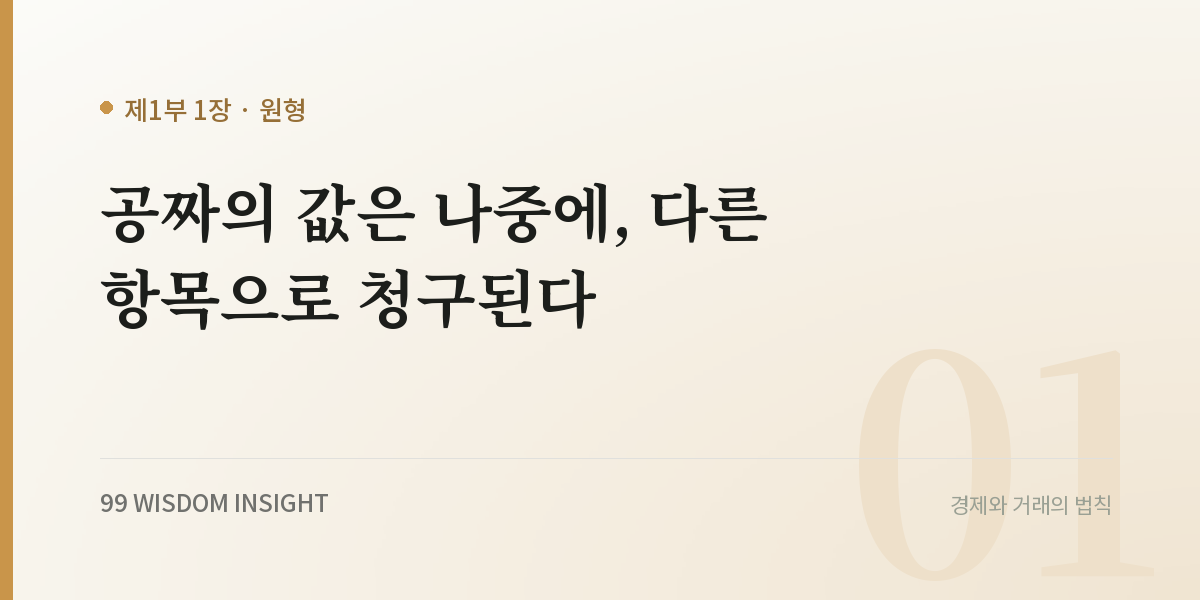
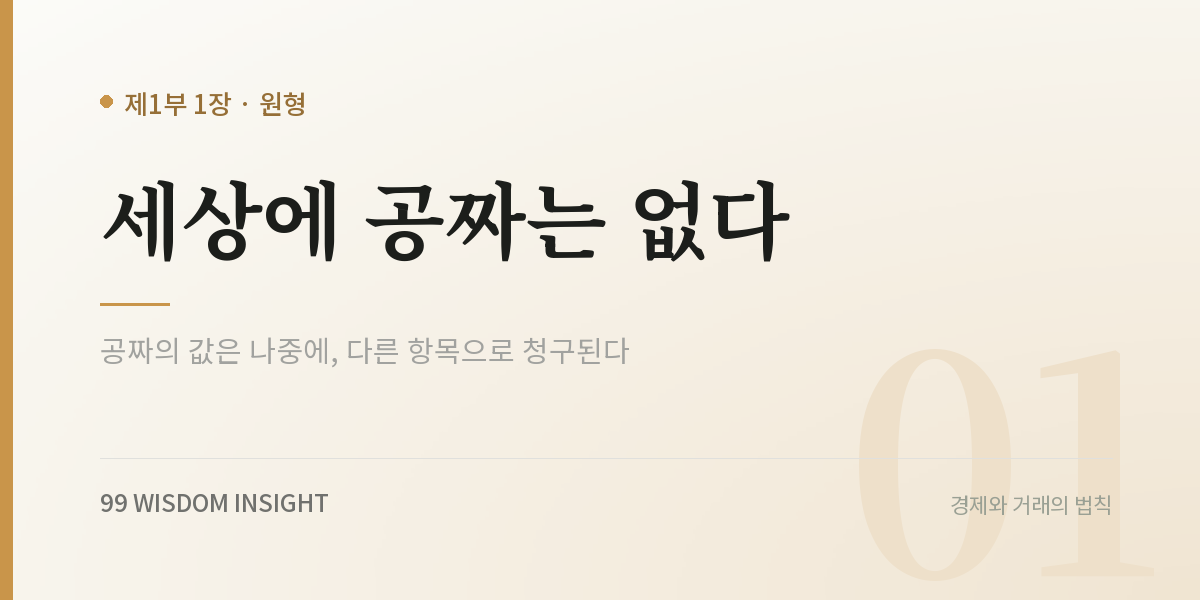
원문 마무리 교체 + 공유 카드에 속담을 헤드라인으로
원문 1장의 마지막 문장이 칼럼과 완전히 같았다. 칼럼 하단에 '원문 보기'가
있어 이어 읽으면 같은 펀치라인을 두 번 맞는 구조였다. '이 점심은 어디가
짠가'는 칼럼에 남기고, 원문은 자기가 연 장면(키플링)으로 닫으면서 회계
은유로 끝나도록 바꿨다.

공유 카드는 속담(anchor_quote)을 헤드라인으로 올리고, 칼럼의 인사이트
한 줄(quotable)을 그 아래 작게 받치도록 다시 짰다. 속담이 공감이 가장
빨리 일어나는 문장이라 먼저 눈에 들어와야 한다. 둘 사이에는 부 색을 쓴
짧은 구분선을 둬 좌측 액센트 바와 호응시켰다.

속담 길이가 4자에서 38자까지 벌어져 있어, 줄 수만 보고 줄이면 긴 속담에서
블록이 푸터를 넘어 잘렸다(75장으로 확인). 전체 높이까지 보고 줄이도록
고쳤고, 그래도 넘치면 받침을 한 줄로 줄인다. 주인공은 속담이다.

함께 고친 것:
- 목록 API 가 anchor_quote 를 내려주지 않아 카드에서 쓸 수 없었다. 공개
  칼럼 페이지에 이미 보이는 값이라 SELECT 에 추가했다.
- reader.html 의 og:image 치수가 800x400 으로 적혀 있었다. 실제 카드는
  1200x600 이다. 카카오·페이스북이 이 값을 미리보기 배치에 쓴다.
- 1:1 카드는 가운데가 비어 상단에 쏠려서 헤드라인을 100 에서 116 으로 키웠다.

4자·7자·33자·38자 속담으로 2:1 과 1:1 을 모두 확인했다.

Changed region(s): [[0.0617, 0.3, 0.6475, 0.6], [0.0617, 0.15, 0.2467, 0.21]]

diff --git a/functions/api/[[path]].js b/functions/api/[[path]].js
@@ -777,7 +777,7 @@ async function handleListInsights(request, env) {
   const lens    = url.searchParams.get('lens');
   const chapter = url.searchParams.get('chapter');
 
-  let sql = "SELECT id, chapter_id, part_id, lens, slug, title, hook, quotable, hero_image, reading_time, tags, published_at FROM insights WHERE status = 'published'";
+  let sql = "SELECT id, chapter_id, part_id, lens, slug, title, hook, anchor_quote, quotable, hero_image, reading_time, tags, published_at FROM insights WHERE status = 'published'";
   const binds = [];
   if (partId)  { sql += ' AND part_id = ?';    binds.push(parseInt(partId, 10)); }
   if (lens)    { sql += ' AND lens = ?';       binds.push(lens); }

diff --git a/reader.html b/reader.html
@@ -10,8 +10,8 @@
 <meta property="og:type"        content="article">
 <meta property="og:site_name"   content="99 Wisdom Insight">
 <meta property="og:image"       content="https://99wisdombook.org/og-kakao.png">
-<meta property="og:image:width"  content="800">
-<meta property="og:image:height" content="400">
+<meta property="og:image:width"  content="1200">
+<meta property="og:image:height" content="600">
 <meta property="og:locale"      content="ko_KR">
 <meta name="twitter:card"        content="summary_large_image">
 

diff --git a/tools/make_og.py b/tools/make_og.py
@@ -94,15 +94,19 @@ def radial_tint(size, color, strength=0.20):
 
 
 def build(item, ratio='2x1'):
+    # 카드의 주인공은 속담(anchor_quote)이다. 공감이 가장 빨리 일어나는 문장이라
+    # 가장 크게 놓고, 칼럼의 인사이트 한 줄(quotable)은 그 아래에 작게 받친다.
     if ratio == '2x1':
         W, H = 1200, 600
         pad, bar = 88, 12
-        k_size, t_size, f_size = 26, 62, 24
+        k_size, a_size, q_size, f_size = 26, 84, 29, 24
+        a_min, a_max_lines = 44, 3
         ghost_size = 300
     else:
         W, H = 1080, 1080
         pad, bar = 96, 14
-        k_size, t_size, f_size = 30, 74, 28
+        k_size, a_size, q_size, f_size = 30, 116, 34, 28
+        a_min, a_max_lines = 52, 4
         ghost_size = 380
 
     part = int(item.get('part_id') or 1)
@@ -130,29 +134,64 @@ def build(item, ratio='2x1'):
     kicker = '제%d부 %d장 · %s' % (part, int(item.get('chapter_id') or 0), lens)
     kf = font(SANS, k_size, 'Medium')
 
-    head = (item.get('quotable') or item.get('title') or '').strip()
     text_w = int((W - left - pad) * (0.78 if ratio == '2x1' else 0.95))
-    tf = font(SERIF, t_size, 'Bold')
-    lines = wrap(d, head, tf, text_w)
-    while len(lines) > (3 if ratio == '2x1' else 4) and tf.size > 34:
-        tf = font(SERIF, int(tf.size * 0.88), 'Bold')
-        lines = wrap(d, head, tf, text_w)
 
-    line_h = int(tf.size * 1.40)
-    gap    = int(k_size * 1.7)
-    block_h = k_size + gap + line_h * len(lines)
+    anchor = (item.get('anchor_quote') or item.get('title') or '').strip()
+    sub    = (item.get('quotable') or '').strip()
 
-    # 하단 브랜드 영역을 뺀 공간의 중앙
+    # 받침 = 칼럼의 인사이트 한 줄. 속담보다 확실히 작고 옅게 둔다.
+    qf = font(SANS, q_size, 'Regular')
+    q_lines = wrap(d, sub, qf, text_w)[:2] if sub else []
+
+    q_line_h = int(qf.size * 1.62)
+    gap      = int(k_size * 1.6)      # 키커 ↔ 속담
+    mid      = int(q_size * 1.3)      # 속담 ↔ 구분선
+    rule_gap = int(q_size * 1.0)      # 구분선 ↔ 받침
+
+    # 하단 브랜드 영역을 뺀 공간
     foot_top = H - pad - f_size * 2 - 34
-    top = max(pad, int((foot_top - block_h) / 2))
+    avail    = foot_top - pad
+
+    def measure(size, qn):
+        f = font(SERIF, size, 'Bold')
+        ls = wrap(d, anchor, f, text_w)
+        h = k_size + gap + int(f.size * 1.34) * len(ls)
+        if qn:
+            h += mid + rule_gap + q_line_h * qn
+        return f, ls, h
+
+    # 헤드라인 = 속담. 4자짜리부터 38자짜리까지 있어, 줄 수와 전체 높이가
+    # 모두 들어갈 때까지 줄인다. 높이를 보지 않으면 긴 속담에서 푸터를 넘는다.
+    a_cur = a_size
+    af, a_lines, block_h = measure(a_cur, len(q_lines))
+    while (len(a_lines) > a_max_lines or block_h > avail) and a_cur > a_min:
+        a_cur = int(a_cur * 0.9)
+        af, a_lines, block_h = measure(a_cur, len(q_lines))
+
+    # 그래도 넘치면 받침을 한 줄로 줄인다. 주인공은 속담이다.
+    if block_h > avail and len(q_lines) > 1:
+        q_lines = q_lines[:1]
+        af, a_lines, block_h = measure(a_cur, 1)
+
+    a_line_h = int(af.size * 1.34)
+    top = max(pad, int((foot_top - block_h) * 0.46))
 
     d.ellipse([left, top + k_size * 0.28, left + 12, top + k_size * 0.28 + 12], fill=col)
     d.text((left + 24, top), kicker, font=kf, fill=mix(col, (0, 0, 0), 0.75))
 
     ty = top + k_size + gap
-    for ln in lines:
-        d.text((left, ty), ln, font=tf, fill=INK)
-        ty += line_h
+    for ln in a_lines:
+        d.text((left, ty), ln, font=af, fill=INK)
+        ty += a_line_h
+
+    if q_lines:
+        # 속담과 받침을 가르는 짧은 선. 부 색을 써서 좌측 액센트 바와 호응시킨다.
+        ty += mid
+        d.line([left, ty, left + int(q_size * 2.4), ty], fill=col, width=3)
+        ty += rule_gap
+        for ln in q_lines:
+            d.text((left, ty), ln, font=qf, fill=mix(INK, BG, 0.40))
+            ty += q_line_h
 
     # ── 하단 ──
     fy = H - pad - f_size

diff --git a/data/chapters/1.md b/data/chapters/1.md
@@ -121,4 +121,4 @@ extracted_at: 2026-09-22
 
 두 질문에 답할 수 있다면 공짜라는 말은 더 이상 판단을 멈추게 하지 않는다. 계산서가 다른 칸에 적혀 있다는 안내가 될 뿐이다.
 
-키플링이 술집에서 물었어야 했던 것도 결국 하나였다. 이 점심은 어디가 짠가.
+키플링은 셈이 맞지 않는다고 느꼈지만 무엇이 어긋났는지까지는 적지 않았다. 그가 놓친 것은 접시가 아니라 장부였다. 값은 거기 있었고, 다만 다른 칸에 적혀 있었다.
